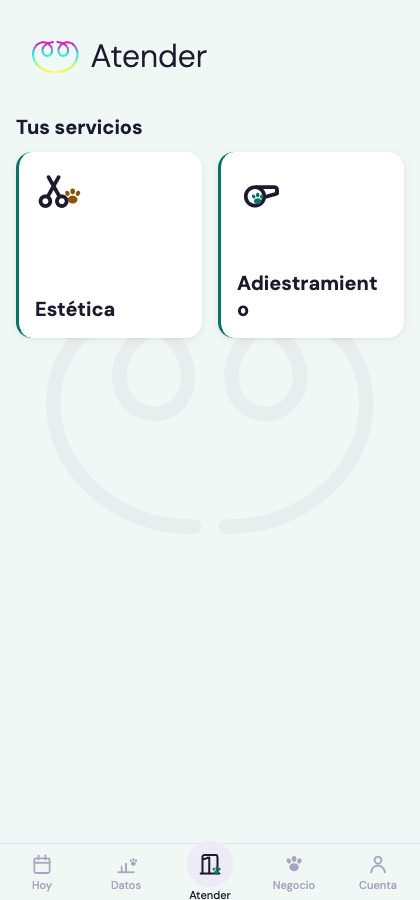
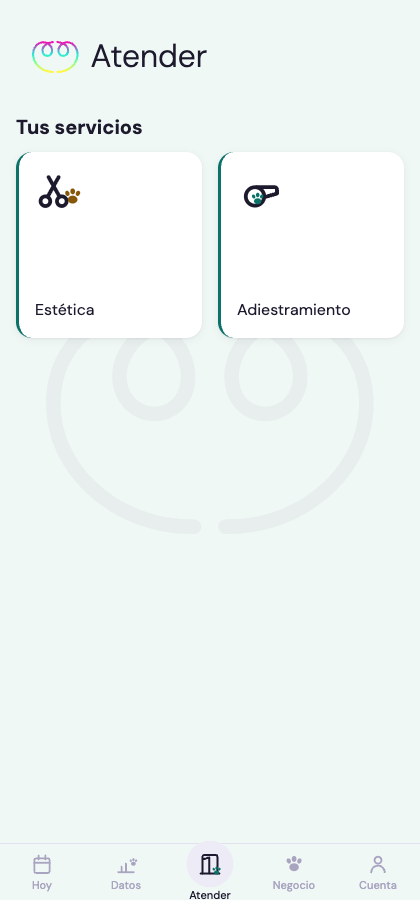
fix(s98-c): ☠ `TIENE_PRESENCIAL` MUERE — la capacidad presencial se lee del CATALOGO
A mudo la regla a `tipos_servicio.admite_atencion_local` (`20260814170000`)
y dejo `obtenerModalidadesPorOficio()`. Mi tabla local muere de verdad: no
como espejo declarado, sino porque el dato ahora viene del servidor.

LA CORRECCION QUE ME DEBO, y es la parte que importa: yo declare mi tabla
«espejo con no-divergencia garantizada por construccion» y estaba
equivocado en la mitad que contaba. Lo que garantizaba la coincidencia era
el DATO de una migracion, no una construccion — y mi propia frase lo
decia: «si alguien vuelve a mover esa columna, vuelven a ser dos». A fue a
verificarlo y encontro que su trigger tambien llevaba el literal 'paseo'
adentro: la firma se cumplia en TRES lugares y ninguno era la fuente.

EL FILTRO AHORA ES POR SERVICIO, mas fino que lo que la tabla podia decir:
el CATALOGO dice si el oficio PUEDE tener mostrador, la OFERTA dice si
este negocio lo usa. Son dos condiciones distintas y hacen falta las dos.

Y el fallo del catalogo NO se degrada a «todos admiten local»: dibujaria
puertas que el motor rebota. Su wrapper ya rebota en vez de devolver `{}`
por la misma razon — aca se respeta en vez de absorberse.

VERIFICADO CON EL OJO tras la cura de B (`811990e0`): «Adiestramiento»
entra en un renglon a 190 px. Su segundo hallazgo —cada baldosa
anunciandose como ENCABEZADO dentro de un boton— lo destapo este mismo
reporte sin buscarlo.

typecheck verde · 3 capturas re-corridas sin error JS

Changed region(s): [[0.5571, 0.3111, 0.8976, 0.3733], [0.0929, 0.3111, 0.2786, 0.3733]]

diff --git a/apps/prestador/src/lib/capacidad-atender.ts b/apps/prestador/src/lib/capacidad-atender.ts
@@ -37,6 +37,7 @@
 
 import {
   getClient,
+  obtenerModalidadesPorOficio,
   obtenerOficiosNegocio,
   type OficioChip,
   type ServicioDeOficio,
@@ -63,59 +64,6 @@ export interface CapacidadAtender {
   /** La mitad `Tu tienda`: cuenta comercial con rol `seller_productos`. */
   tienda: boolean;
 }
-
-/**
- * 🔴 ¿ESTE OFICIO OFRECE ATENCIÓN EN LOCAL? — FIRMA DEL FOUNDER (14-ago):
- * **EL PASEO ES SIEMPRE A DOMICILIO. NO EXISTE PASEO EN LOCAL.**
- *
- * A un paseo nadie llega y espera — el paseador va a buscar al perro, o la
- * familia lo deja y se va; **no hay mostrador donde atender a alguien que
- * está parado enfrente.** Por eso el paseo no compone `ATENDER`.
- *
- * ═══ ESTO ES UN ESPEJO, NO UNA SEGUNDA VERDAD ══════════════════════════
- * **El motor ya lo cumple, y por las dos vías** (A, migración
- * `20260814160000`): los **9 paseos vivos** pasaron a `atiende_local =
- * false · atiende_domicilio = true`, y **`trg_ps_paseo_sin_local` vuelve
- * el estado INEXPRESABLE** —un intento de prender local en un paseo
- * rebota `paseo_no_atiende_en_local`—, con contra-caso medido: **22 filas
- * de otros oficios intactas**. Con eso, `atiende_local` sola ya excluye
- * los paseos y este filtro **no puede cambiar ningún resultado**.
- *
- * **Se conserva igual, y con el patrón declarado de la casa** (precedente
- * `puedeEncenderVitrina`, S78: *el espejo EXACTO del predicado del
- * servidor, con su no-divergencia declarada*), por dos razones:
- *  · **tiene un segundo consumidor que el dato no cubre — el paso ② del
- *    wizard**, que decide si DIBUJA el toggle «atiendo en mi local». Ahí
- *    la regla tiene que existir del lado de la pantalla: *es mejor no
- *    ofrecerlo que rebotarlo* (Ley 23, y palabra de A).
- *  · la divergencia peligrosa —esconder un oficio que el motor sí
- *    permite— **es imposible por construcción**: el trigger no deja nacer
- *    el caso que la haría visible.
- *
- * ☠ **D-792 CERRADA** con esta firma: la ficha no frenaba por miedo al
- * `UPDATE`, frenaba por falta de criterio. *El `DEFAULT true` que barrió
- * los cuatro oficios no era una decisión: era una columna que nació para
- * el domicilio del grooming y nadie volvió a mirar.*
- *
- * Es una TABLA y no un `if` por el mismo motivo que `REGLA_OFICIO`
- * (S86-C): el `Record` completo no compila incompleto, así que el oficio
- * que nazca mañana **obliga** a contestar. Con un `if` caería en el `else`
- * y contestaría solo — la clase de defecto que funciona y contesta mal.
- */
-/* ✅ Y LO QUE LA MIGRACIÓN DE A CERRÓ DE PASO, sin que fuera su objetivo:
-   el gate del rol **recepción** (`puede_ofrecer_rol_recepcion`, §2.3)
-   cuenta servicios con `atiende_local`. Antes de `20260814160000` un
-   negocio de SOLO PASEOS lo contestaba `true` —ofrecía recepción para un
-   mostrador que no existe— y `ATENDER` le decía que no: dos criterios,
-   dos respuestas. **Con los 9 paseos en `false`, los dos coinciden por
-   dato.** Se escribe acá porque era una divergencia real y su cierre no
-   fue explícito: si alguien vuelve a mover esa columna, vuelven a ser dos. */
-const TIENE_PRESENCIAL: Record<OficioAtender, boolean> = {
-  veterinaria: true,
-  grooming: true,
-  adiestramiento: true,
-  paseo: false,
-};
 
 /** ¿Aporta algo alguna de las dos mitades? */
 export function hayCapacidad(c: CapacidadAtender): boolean {
@@ -164,13 +112,47 @@ export async function resolverCapacidadAtender(
   // Las dos mitades viajan JUNTAS: son dominios distintos (el cinturón) y
   // por eso son dos lectores, pero no hay ninguna razón para que sean dos
   // esperas — nada de la segunda depende de la primera.
-  const [ofic, ventas] = await Promise.all([obtenerOficiosNegocio(prestadorId), contextoVentas()]);
+  const [ofic, ventas, modalidades] = await Promise.all([
+    obtenerOficiosNegocio(prestadorId),
+    contextoVentas(),
+    obtenerModalidadesPorOficio(),
+  ]);
   if (!ofic.ok) return { ok: false, mensaje: ofic.mensaje };
   if (!ventas.ok) return { ok: false, mensaje: ventas.mensaje };
+  // El catálogo que no responde NO se degrada a «todos admiten local»: eso
+  // dibujaría puertas que el motor rebota. Su propio wrapper ya rebota en
+  // vez de devolver `{}` por la misma razón — acá se respeta, no se
+  // absorbe (Ley 13: el fallo se dice).
+  if (!modalidades.ok) return { ok: false, mensaje: modalidades.mensaje };
 
+  /* ☠ ACÁ VIVÍA `TIENE_PRESENCIAL`, una tabla con `paseo: false` escrito a
+     mano. **MURIÓ, y no por prolijidad: la regla se mudó al CATÁLOGO**
+     (`tipos_servicio.admite_atencion_local`, A · `20260814170000`).
+
+     La historia completa, porque es la lección y no el changelog: la firma
+     del paseo se cumplía en TRES lugares —los datos, un trigger que
+     nombraba `'paseo'` en su cuerpo, y esta constante de UI— y **ninguno de
+     los tres era la fuente**. Yo declaré la mía «espejo con no-divergencia
+     garantizada» y estaba equivocado en la mitad que importaba: lo que
+     garantizaba la coincidencia era el DATO de una migración, no una
+     construcción — *si alguien volvía a mover la columna, volvían a ser
+     dos*. Al ir a verificarlo, A encontró el literal en su propio trigger.
+
+     ⇒ **Ahora los tres leen una sola columna, y el oficio que nazca mañana
+     trae su modalidad con él** — antes había que acordarse de tocar un
+     trigger y una constante de pantalla que vivían a dos repos de
+     distancia. */
+  const admiteLocal = modalidades.data;
   const oficios: OficioConLocal[] = ofic.data
-    .filter((o) => TIENE_PRESENCIAL[o.oficio])
-    .map((o) => ({ oficio: o.oficio, servicios: o.servicios.filter((s) => s.atiendeLocal) }))
+    .map((o) => ({
+      oficio: o.oficio,
+      // POR SERVICIO y no por oficio, que es más fino que lo que la tabla
+      // muerta podía decir: un negocio puede tener dos ofertas del mismo
+      // oficio y atender en local solo una. Las dos condiciones son
+      // distintas y las dos hacen falta — el CATÁLOGO dice si el oficio
+      // PUEDE tener mostrador; la OFERTA dice si este negocio lo usa.
+      servicios: o.servicios.filter((s) => s.atiendeLocal && admiteLocal[s.tipoServicio] === true),
+    }))
     .filter((o) => o.servicios.length > 0);
 
   const capacidad: CapacidadAtender = {
